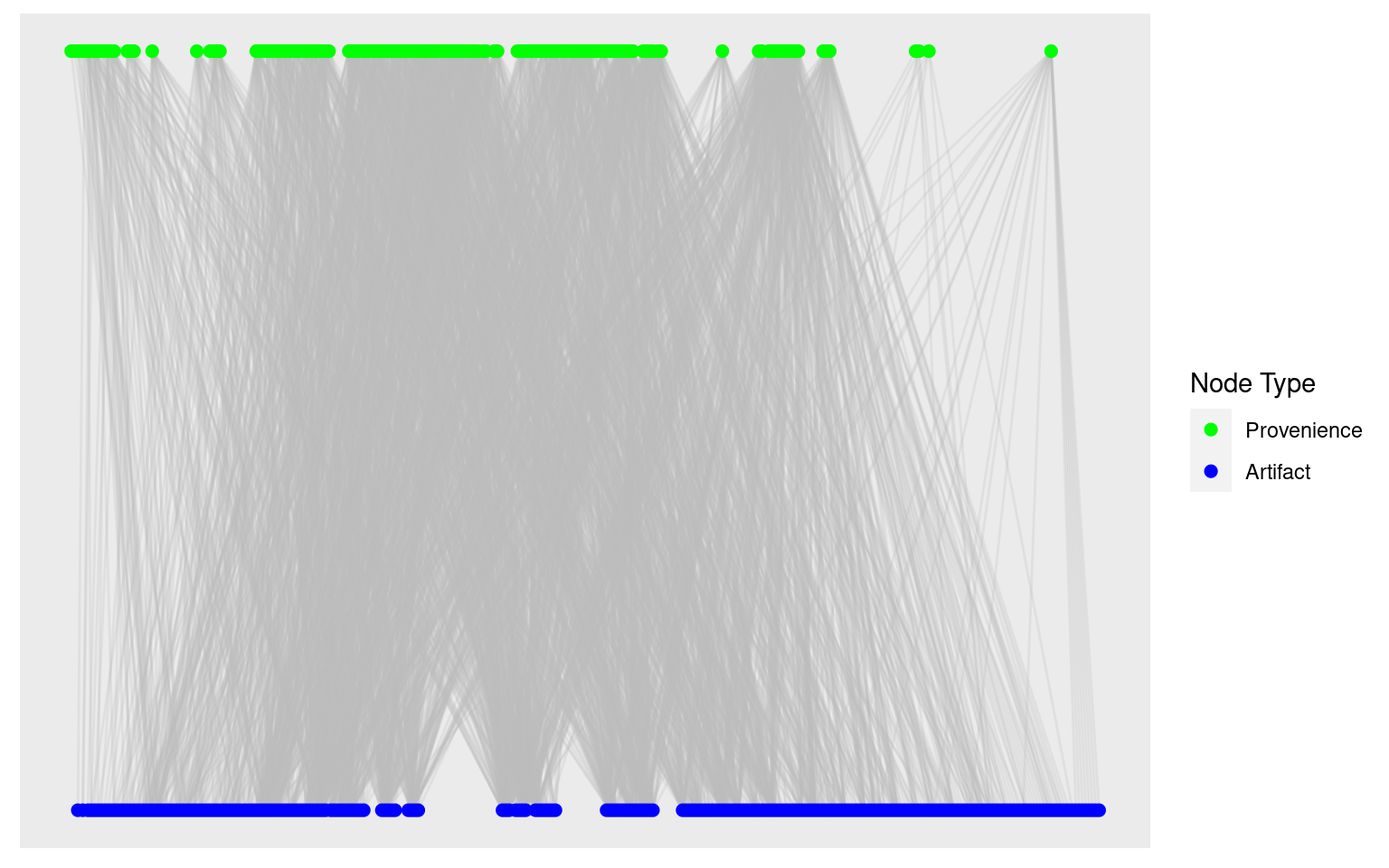
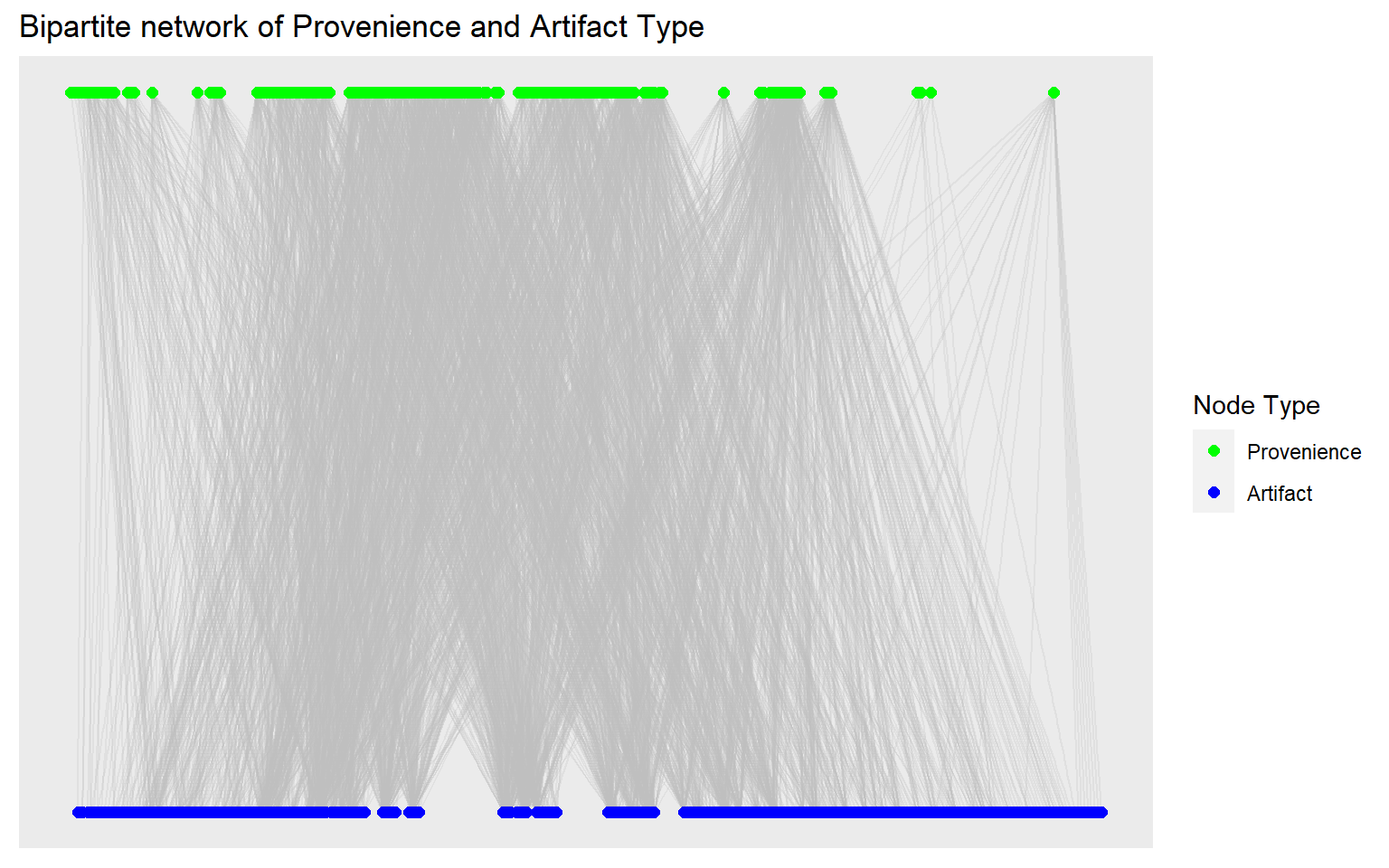
Finished Jaccard writeup

diff --git a/docs/assemblage_network/assemblage_network_doc_2_similarity.html b/docs/assemblage_network/assemblage_network_doc_2_similarity.html
@@ -94,6 +94,7 @@ code span.wa { color: #60a0b0; font-weight: bold; font-style: italic; } /* Warni
 <link href="assemblage_network_doc_2_similarity_files/libs/bootstrap/bootstrap-icons.css" rel="stylesheet">
 <link href="assemblage_network_doc_2_similarity_files/libs/bootstrap/bootstrap.min.css" rel="stylesheet" id="quarto-bootstrap" data-mode="light">
 
+  <script src="https://cdn.jsdelivr.net/npm/mathjax@3/es5/tex-chtml-full.js" type="text/javascript"></script>
 
 </head>
 
@@ -134,7 +135,7 @@ code span.wa { color: #60a0b0; font-weight: bold; font-style: italic; } /* Warni
 <p><img src="archaeo_DS_mine.png" class="img-fluid"></p>
 <p>In my last installment (<a href="https://medium.com/p/648a2f20d389">Part I</a>), I introduced you to a bit about the process of analyzing an archaeological site with data science. I talked about the frustratingly complex nature of “Old Things in Space” and how the network of artifacts and locations constitute a bipartite graph.</p>
 <p>As we worked through the process of creating a two-mode graph and projecting it into its constituent one-mode graphs, however, we ended on something of a cliff-hanger… <em>everything</em> ended up connected to <em>everything else</em>!</p>
-<p>Well, sort of. I have to confess that I intentionally lead you down a primrose path straight into a carefully crafted cul-de-sac. All part of my cunning plan, of course, to get to the much more interesting topic of thinking about just what it means for two things to be “similar” and similarity metrics for <em>sets.</em></p>
+<p>Well, sort of. I have to confess that I intentionally lead you down a primrose path straight into a cul-de-sac. All part of my cunning plan, of course, to get to the much more interesting topic of thinking about just what it means for two things to be “similar” and similarity metrics for <em>sets.</em></p>
 <p>In my defense, I did briefly mention that <code>igraph</code> doesn’t really have the best of tools to actually <em>do</em> much of anything interesting with bipartite graphs. The problem is that the method it uses in its <code>bipartite_projection</code> simply sums the pairwise occurrences in the incidence matrix. That, as it turns out, is less than useful in a lot of cases.</p>
 <p>Instead, we need to explore some more robust methods for evaluating <em>similarity</em> between sets. Unlike numerical methods of calculating correlation or distance, there are some conceptual peculiarities when comparing correspondence and similarity between sets that need to be considered. In this article, we’ll look at some of the most commonly used set-based similarity metrics and reason through <em>how</em> to choose the appropriate metric for our goals.</p>
 <p>For those just joining in, this is the Part II of a series in archaeological data science covering:</p>
@@ -195,8 +196,8 @@ code span.wa { color: #60a0b0; font-weight: bold; font-style: italic; } /* Warni
 <span id="cb2-7"><a href="#cb2-7" aria-hidden="true" tabindex="-1"></a>    <span class="at">values =</span> <span class="fu">c</span>(<span class="st">"green"</span>, <span class="st">"blue"</span>),</span>
 <span id="cb2-8"><a href="#cb2-8" aria-hidden="true" tabindex="-1"></a>    <span class="at">name =</span> <span class="st">"Node Type"</span>,</span>
 <span id="cb2-9"><a href="#cb2-9" aria-hidden="true" tabindex="-1"></a>    <span class="at">breaks =</span> <span class="fu">c</span>(<span class="cn">FALSE</span>, <span class="cn">TRUE</span>),</span>
-<span id="cb2-10"><a href="#cb2-10" aria-hidden="true" tabindex="-1"></a>    <span class="at">labels =</span> <span class="fu">c</span>(<span class="st">"Provenience"</span>, <span class="st">"Artifact"</span>)</span>
-<span id="cb2-11"><a href="#cb2-11" aria-hidden="true" tabindex="-1"></a>  )</span></code><button title="Copy to Clipboard" class="code-copy-button"><i class="bi"></i></button></pre></div>
+<span id="cb2-10"><a href="#cb2-10" aria-hidden="true" tabindex="-1"></a>    <span class="at">labels =</span> <span class="fu">c</span>(<span class="st">"Provenience"</span>, <span class="st">"Artifact"</span>)) <span class="sc">+</span></span>
+<span id="cb2-11"><a href="#cb2-11" aria-hidden="true" tabindex="-1"></a>  <span class="fu">ggtitle</span>(<span class="st">"Bipartite network of Provenience and Artifact Type"</span>)</span></code><button title="Copy to Clipboard" class="code-copy-button"><i class="bi"></i></button></pre></div>
 <div class="cell-output-display">
 <div class="quarto-figure quarto-figure-center">
 <figure class="figure">
@@ -224,11 +225,159 @@ code span.wa { color: #60a0b0; font-weight: bold; font-style: italic; } /* Warni
 <p>Depending on which way we view our incidence matrix, we now have a collection of the sets of artifact types found at each provenience (by row) or sets of proveniences at which each artifact type was found (by column).</p>
 <p>The goal is to find a partitioning of this system of sets such that each subset of provenience contains a coherent collection of artifact types (i.e., what archaeologists call an <em>assemblage</em>) and each subset of artifact types are found together in a coherent spatial collection of proveniences (we call those a <em>context</em>).</p>
 <p>What we’re trying to do now is to look at the ways we compute that “coherence” within the projected modes of our bipartite graph. In order to project our bipartite node types into two separate one-mode graphs, we want to evaluate similarity measures between pairwise comparisons of these sets.</p>
-<p>We found out in the last installment (<a href="https://medium.com/p/648a2f20d389">Part I</a>) that the <code>bipartite_projection</code> method in <code>igraph</code> only sums the number of pairwise coincidences. That means, though, that even one shared element between sets is enough to link them. It doesn’t, at all, factor in how many elements of the sets are <em>different</em> or the <em>total</em> number of elements being considered. In the end, every node in each projection was linked to almost every other node with no good way to evaluate the <em>strength</em> of those connections. Not particularly useful.</p>
+</section>
+<section id="archaeological-objectives" class="level2">
+<h2 class="anchored" data-anchor-id="archaeological-objectives">Archaeological Objectives</h2>
+<p>I’ve introduced you to a couple archaeological concepts, as well as a few concepts about sets and graphs. Now I’d like to pause to explain why we’re so interested in finding these subsets and partitions. You see, archaeologists don’t really interpret artifacts <em>per se</em>.</p>
+<p>We’re interested in interpreting human activities across time and space, which gives us a window into far more abstract concepts like <em>behavior</em> or <em>culture</em>. The way we do that, since we don’t have a time machine to go back and observe what people were actually doing, is by looking for patterns of associations between the physical remnants (i.e., the debris or <em>trash</em>) left behind by those activities. Weird, I know, but it works surprisingly well.</p>
+<p>Just think for a moment about what you’re trash might show about <em>your</em> daily behavior!</p>
+<p>Anyway, the reason we’re so interested in finding groupings in artifacts (the things) and provenience (the location in 3-dimensional space) is that those are just the samples we collect. We want to know about the <em>populations</em> from which those samples are drawn. In this case, those populations are the <em>assemblages</em> and <em>contexts</em>. We want to see if we can differentiate one assemblage or context from another, then see what patterns that reveals.</p>
+<p>For example, does an identified assemblage of artifacts have a specific range of dates so that it uniquely identifies <em>when</em> or <em>how long</em> a site was occupied? Does one assemblage relate to domestic activities while another reflects economic activities, and are those spaces (i.e., their contexts) separate or commingled? If the site was occupied multiple times or by multiple households, were they continuous or intermittent? Different assemblages might be mixed into the same context if they were continuous.</p>
+<p>So many questions, but parsing the artifact and provenience data into assemblages and contexts is the first step. We want to be sure that our analytic methods are appropriate.</p>
 </section>
 </section>
-<section id="bipartite-projection-by-similarity" class="level1">
-<h1>Bipartite Projection by Similarity</h1>
+<section id="similarity-measures-for-projections" class="level1">
+<h1>Similarity Measures for Projections</h1>
+<p>We found out in the last installment (<a href="https://medium.com/p/648a2f20d389">Part I</a>) that the <code>bipartite_projection</code> method in <code>igraph</code> only sums the number of pairwise coincidences. That means, though, that even one shared element between sets is enough to link them. It doesn’t, at all, factor in how many elements of the sets are <em>different</em> or the <em>total</em> number of elements being considered.</p>
+<p>In the end, every node in each projection was linked to almost every other node with no good way to evaluate the <em>strength</em> of those connections. Not particularly useful.</p>
+<p>Now we can start looking more closely at set-based similarity measures, and how use them to project our bipartite graph. We could use existing packages for these, but I’d like instead to build our own functions in order to get a better sense of what is going on “under the hood” so to speak.</p>
+<p>Do note that these functions are intended for binary incidence matrices. Different approaches would be needed for sets with multiplicities or counts (i.e., multisets or m-sets).</p>
+<section id="overlap-or-szymkiewicz-simpson-coefficient" class="level2">
+<h2 class="anchored" data-anchor-id="overlap-or-szymkiewicz-simpson-coefficient">Overlap or Szymkiewicz-Simpson Coefficient</h2>
+<p>This similarity measure is simply the number of common elements of the intersection between two sets divided by the total number of members in the <em>smaller</em> of the two sets. Remember, the number of unique members or elements that make up a set are its size or (more formally) its cardinality.</p>
+<p><span class="math display">\[
+Overlap(A, B) = \frac{|A \cap B |}{\min ({|A|,|B|})}
+\]</span></p>
+<p>For example, say we have two sets: <span class="math inline">\(X=\{a, b, c\}\)</span> and <span class="math inline">\(Y = \{b, c, d, e, f\}\)</span>. Their intersection is <span class="math inline">\(X \cap Y = \{b, c\}\)</span> and the sets have cardinality <span class="math inline">\(|X|=3\)</span> and <span class="math inline">\(|Y| = 5\)</span>. Their overlap coefficient would be:</p>
+<p><span class="math display">\[
+\begin{align}
+Overlap(X, Y) &amp;= \frac{|\{b, c\}|}{\min(|\{a, b, c\}|, |\{b, c, d, e, f\}|)}\\
+&amp;= \frac{2}{\min (3, 5)} \\
+&amp;= \frac{2}{3} \approx 0.67
+\end{align}
+\]</span></p>
+<p>Easy, right? It’s just the proportion of the smaller set’s members that are also members of the larger set (thus, <em>overlap</em>).</p>
+<p>Notice, though, that if <em>all</em> of the elements of the smaller set were in the larger set – i.e., if we were to drop element <span class="math inline">\(a\)</span> from set <span class="math inline">\(X\)</span> so that it was a complete <em>subset</em> of <span class="math inline">\(Y\)</span> – then the coefficient would equal <span class="math inline">\(1\)</span> regardless of how many additional members were in <span class="math inline">\(Y\)</span>.</p>
+<p>So, this similarity measure is defining <em>similarity</em> in a very specific way. It includes an assumption that <em>any</em> subset is effectively <em>equivalent</em> to its superset. That little quirk of definition can be quite useful, depending on your application.</p>
+<p>The overlap coefficient is a common set similarity metric used in everything from gene sequencing to topic modeling. It’s also quite easy to calculate across our binary incidence matrix.</p>
+<div class="cell">
+<div class="sourceCode cell-code" id="cb5"><pre class="sourceCode r code-with-copy"><code class="sourceCode r"><span id="cb5-1"><a href="#cb5-1" aria-hidden="true" tabindex="-1"></a><span class="co"># Szymkiewicz-Simpson overlap coefficient for binary incidence matrices</span></span>
+<span id="cb5-2"><a href="#cb5-2" aria-hidden="true" tabindex="-1"></a></span>
+<span id="cb5-3"><a href="#cb5-3" aria-hidden="true" tabindex="-1"></a>overlap_coef_bin <span class="ot">&lt;-</span> <span class="cf">function</span>(x) {</span>
+<span id="cb5-4"><a href="#cb5-4" aria-hidden="true" tabindex="-1"></a>  <span class="co"># Calculate the pairwise sums of non-zero matrix elements to find the number</span></span>
+<span id="cb5-5"><a href="#cb5-5" aria-hidden="true" tabindex="-1"></a>  <span class="co"># of intersecting elements between each input column</span></span>
+<span id="cb5-6"><a href="#cb5-6" aria-hidden="true" tabindex="-1"></a>  bin_intersect_mat <span class="ot">&lt;-</span> <span class="fu">t</span>(x) <span class="sc">%*%</span> x</span>
+<span id="cb5-7"><a href="#cb5-7" aria-hidden="true" tabindex="-1"></a>  </span>
+<span id="cb5-8"><a href="#cb5-8" aria-hidden="true" tabindex="-1"></a>  <span class="co"># Calculate the input column sums to find the individual size of each set</span></span>
+<span id="cb5-9"><a href="#cb5-9" aria-hidden="true" tabindex="-1"></a>  col_sum <span class="ot">&lt;-</span> <span class="fu">apply</span>(x, <span class="dv">2</span>, <span class="cf">function</span>(xx)</span>
+<span id="cb5-10"><a href="#cb5-10" aria-hidden="true" tabindex="-1"></a>    <span class="fu">sum</span>(xx <span class="sc">!=</span> <span class="dv">0</span>))</span>
+<span id="cb5-11"><a href="#cb5-11" aria-hidden="true" tabindex="-1"></a>  </span>
+<span id="cb5-12"><a href="#cb5-12" aria-hidden="true" tabindex="-1"></a>  <span class="co"># Find the smaller of each pair of sets by taking the matrix outer minimum</span></span>
+<span id="cb5-13"><a href="#cb5-13" aria-hidden="true" tabindex="-1"></a>  min_set_size_mat <span class="ot">&lt;-</span> <span class="fu">outer</span>(col_sum, col_sum, <span class="at">FUN =</span> pmin)</span>
+<span id="cb5-14"><a href="#cb5-14" aria-hidden="true" tabindex="-1"></a>  </span>
+<span id="cb5-15"><a href="#cb5-15" aria-hidden="true" tabindex="-1"></a>  <span class="co"># Szymkiewicz-Simpson overlap coefficient is the pairwise intersection of two</span></span>
+<span id="cb5-16"><a href="#cb5-16" aria-hidden="true" tabindex="-1"></a>  <span class="co"># sets divided by the size of the smaller set</span></span>
+<span id="cb5-17"><a href="#cb5-17" aria-hidden="true" tabindex="-1"></a>  ssoc <span class="ot">&lt;-</span> bin_intersect_mat <span class="sc">/</span> min_set_size_mat</span>
+<span id="cb5-18"><a href="#cb5-18" aria-hidden="true" tabindex="-1"></a>  </span>
+<span id="cb5-19"><a href="#cb5-19" aria-hidden="true" tabindex="-1"></a>  <span class="co"># Set diagonal to identity</span></span>
+<span id="cb5-20"><a href="#cb5-20" aria-hidden="true" tabindex="-1"></a>  <span class="fu">diag</span>(ssoc) <span class="ot">&lt;-</span> <span class="dv">1</span></span>
+<span id="cb5-21"><a href="#cb5-21" aria-hidden="true" tabindex="-1"></a>  </span>
+<span id="cb5-22"><a href="#cb5-22" aria-hidden="true" tabindex="-1"></a>  <span class="co"># Assign input column names to rows and columns of return matrix</span></span>
+<span id="cb5-23"><a href="#cb5-23" aria-hidden="true" tabindex="-1"></a>  <span class="fu">dimnames</span>(ssoc) <span class="ot">&lt;-</span> <span class="fu">list</span>(<span class="fu">colnames</span>(x), <span class="fu">colnames</span>(x))</span>
+<span id="cb5-24"><a href="#cb5-24" aria-hidden="true" tabindex="-1"></a>  </span>
+<span id="cb5-25"><a href="#cb5-25" aria-hidden="true" tabindex="-1"></a>  <span class="fu">return</span>(ssoc)</span>
+<span id="cb5-26"><a href="#cb5-26" aria-hidden="true" tabindex="-1"></a>}</span></code><button title="Copy to Clipboard" class="code-copy-button"><i class="bi"></i></button></pre></div>
+</div>
+</section>
+<section id="jaccard-or-tanimoto-similarity-index" class="level2">
+<h2 class="anchored" data-anchor-id="jaccard-or-tanimoto-similarity-index">Jaccard (or Tanimoto) Similarity Index</h2>
+<p>The Jaccard index is probably the most well-known and used of the set similarity measures. You may also see this one referenced as the Tanimoto (or even Jaccard-Tanimoto) index, owing to its independent formulation through time in different fields of study. All versions, however, refer to a measure of similarity based on the ratio of cardinality between the <em>intersection</em> of two sets and their <em>union</em>.</p>
+<p><span class="math display">\[
+J(A, B) = \frac{|A \cap B|}{|A \cup B|} = \frac{|A \cap B|}{|A| + |B| - |A \cap B|}
+\]</span></p>
+<p>Unlike the overlap coefficient, you can see that the Jaccard index considers the <em>total</em> cardinality of the sets being compared in the denominator. That means that this index will <em>always</em> penalize differences between sets, even if one is a proper subset of the other.</p>
+<p>To demonstrate, let’s go back to our toy example sets <span class="math inline">\(X=\{a, b, c\}\)</span> and <span class="math inline">\(Y = \{b, c, d, e, f\}\)</span> to calculate the Jaccard index value.</p>
+<p><span class="math display">\[
+\begin{align}
+J(X, Y) &amp;= \frac{|\{b, c\}|}{|\{a, b, c\}| + |\{b, c, d, e, f\}| - |\{b, c\}|}\\
+&amp;= \frac{2}{3 + 5 - 2} \\
+&amp;= \frac{2}{6} \approx 0.33
+\end{align}
+\]</span></p>
+<p>By considering the total cardinality of the sets, the Jaccard index comes back a fair bit <em>lower</em> than the Overlap Coefficient (<span class="math inline">\(\approx 0.67\)</span>). Next, let’s go ahead and drop element <span class="math inline">\(a\)</span> to make <span class="math inline">\(X\)</span> a proper subset of <span class="math inline">\(Y\)</span> and see what happens. Whereas the Overlap Coefficient was <span class="math inline">\(1\)</span>, we find that</p>
+<p><span class="math display">\[
+\begin{align}
+J(X, Y) &amp;= \frac{|\{b, c\}|}{|\{b, c\}| + |\{b, c, d, e, f\}| - |\{b, c\}|}\\
+&amp;= \frac{2}{2 + 5 - 2} \\
+&amp;= \frac{2}{5} = 0.4
+\end{align}
+\]</span></p>
+<p>That’s a significant difference! Even though <span class="math inline">\(X\)</span> is a proper subset of <span class="math inline">\(Y\)</span>, the Jaccard index emphasizes the <em>differences</em> between the sets over their intersection. The greater the disparity between sets, the lower the index value. Again, depending on your use case, that extra penalization of difference may be to your advantage.</p>
+<p>The Jaccard similarity index is perhaps, as already mentioned, the most common and versatile of the set similarity measures. It’s often used for comparing categorical data, and frequently found in ecological or social science applications.</p>
+<p>Our function to calculate the index is very similar to that for the overlap coefficient, but substituting summation for minimum value in our outer product and changing the denominator.</p>
+<div class="cell">
+<div class="sourceCode cell-code" id="cb6"><pre class="sourceCode r code-with-copy"><code class="sourceCode r"><span id="cb6-1"><a href="#cb6-1" aria-hidden="true" tabindex="-1"></a><span class="co"># Jaccard/Tanimoto similarity index for binary incidence matrices</span></span>
+<span id="cb6-2"><a href="#cb6-2" aria-hidden="true" tabindex="-1"></a></span>
+<span id="cb6-3"><a href="#cb6-3" aria-hidden="true" tabindex="-1"></a>jaccard_sim_bin <span class="ot">&lt;-</span> <span class="cf">function</span>(x) {</span>
+<span id="cb6-4"><a href="#cb6-4" aria-hidden="true" tabindex="-1"></a>  <span class="co"># Calculate the pairwise sums of non-zero matrix elements to find the number</span></span>
+<span id="cb6-5"><a href="#cb6-5" aria-hidden="true" tabindex="-1"></a>  <span class="co"># of intersecting elements between each input column</span></span>
+<span id="cb6-6"><a href="#cb6-6" aria-hidden="true" tabindex="-1"></a>  bin_intersect_mat <span class="ot">&lt;-</span> <span class="fu">t</span>(x) <span class="sc">%*%</span> x</span>
+<span id="cb6-7"><a href="#cb6-7" aria-hidden="true" tabindex="-1"></a>  </span>
+<span id="cb6-8"><a href="#cb6-8" aria-hidden="true" tabindex="-1"></a>  <span class="co"># Calculate the input column sums to find the individual size of each set</span></span>
+<span id="cb6-9"><a href="#cb6-9" aria-hidden="true" tabindex="-1"></a>  x_col_sum <span class="ot">&lt;-</span> <span class="fu">apply</span>(x, <span class="dv">2</span>, <span class="cf">function</span>(xx)</span>
+<span id="cb6-10"><a href="#cb6-10" aria-hidden="true" tabindex="-1"></a>    <span class="fu">sum</span>(xx <span class="sc">!=</span> <span class="dv">0</span>))</span>
+<span id="cb6-11"><a href="#cb6-11" aria-hidden="true" tabindex="-1"></a>  </span>
+<span id="cb6-12"><a href="#cb6-12" aria-hidden="true" tabindex="-1"></a>  <span class="co"># Calculate the matrix outer sums for pairwise sum of set sizes</span></span>
+<span id="cb6-13"><a href="#cb6-13" aria-hidden="true" tabindex="-1"></a>  set_size_sum_mat <span class="ot">&lt;-</span> <span class="fu">outer</span>(x_col_sum, x_col_sum, <span class="at">FUN =</span> <span class="st">"+"</span>)</span>
+<span id="cb6-14"><a href="#cb6-14" aria-hidden="true" tabindex="-1"></a>  </span>
+<span id="cb6-15"><a href="#cb6-15" aria-hidden="true" tabindex="-1"></a>  <span class="co"># Jaccard index is intersection of set sizes over the size of the union of</span></span>
+<span id="cb6-16"><a href="#cb6-16" aria-hidden="true" tabindex="-1"></a>  <span class="co"># sets</span></span>
+<span id="cb6-17"><a href="#cb6-17" aria-hidden="true" tabindex="-1"></a>  jacc <span class="ot">&lt;-</span> bin_intersect_mat <span class="sc">/</span> (set_size_sum_mat <span class="sc">-</span> bin_intersect_mat)</span>
+<span id="cb6-18"><a href="#cb6-18" aria-hidden="true" tabindex="-1"></a>  </span>
+<span id="cb6-19"><a href="#cb6-19" aria-hidden="true" tabindex="-1"></a>  <span class="co"># Set diagonal to identity</span></span>
+<span id="cb6-20"><a href="#cb6-20" aria-hidden="true" tabindex="-1"></a>  <span class="fu">diag</span>(jacc) <span class="ot">&lt;-</span> 1L</span>
+<span id="cb6-21"><a href="#cb6-21" aria-hidden="true" tabindex="-1"></a>  </span>
+<span id="cb6-22"><a href="#cb6-22" aria-hidden="true" tabindex="-1"></a>  <span class="co"># Assign input column names to rows and columns of return matrix</span></span>
+<span id="cb6-23"><a href="#cb6-23" aria-hidden="true" tabindex="-1"></a>  <span class="fu">dimnames</span>(jacc) <span class="ot">&lt;-</span> <span class="fu">list</span>(<span class="fu">colnames</span>(x), <span class="fu">colnames</span>(x))</span>
+<span id="cb6-24"><a href="#cb6-24" aria-hidden="true" tabindex="-1"></a>  </span>
+<span id="cb6-25"><a href="#cb6-25" aria-hidden="true" tabindex="-1"></a>  <span class="fu">return</span>(jacc)</span>
+<span id="cb6-26"><a href="#cb6-26" aria-hidden="true" tabindex="-1"></a>}</span></code><button title="Copy to Clipboard" class="code-copy-button"><i class="bi"></i></button></pre></div>
+</div>
+</section>
+<section id="sørensendice-coefficient" class="level2">
+<h2 class="anchored" data-anchor-id="sørensendice-coefficient">Sørensen–Dice Coefficient</h2>
+<div class="cell">
+<div class="sourceCode cell-code" id="cb7"><pre class="sourceCode r code-with-copy"><code class="sourceCode r"><span id="cb7-1"><a href="#cb7-1" aria-hidden="true" tabindex="-1"></a><span class="co"># Sørensen–Dice Coefficient for binary incidence matrices</span></span>
+<span id="cb7-2"><a href="#cb7-2" aria-hidden="true" tabindex="-1"></a></span>
+<span id="cb7-3"><a href="#cb7-3" aria-hidden="true" tabindex="-1"></a>soren_dice_sim_bin <span class="ot">&lt;-</span> <span class="cf">function</span>(x) {</span>
+<span id="cb7-4"><a href="#cb7-4" aria-hidden="true" tabindex="-1"></a>  <span class="co"># Calculate the pairwise sums of non-zero matrix elements to find the number</span></span>
+<span id="cb7-5"><a href="#cb7-5" aria-hidden="true" tabindex="-1"></a>  <span class="co"># of intersecting elements between each input column</span></span>
+<span id="cb7-6"><a href="#cb7-6" aria-hidden="true" tabindex="-1"></a>  bin_intersect_mat <span class="ot">&lt;-</span> <span class="fu">t</span>(x) <span class="sc">%*%</span> x</span>
+<span id="cb7-7"><a href="#cb7-7" aria-hidden="true" tabindex="-1"></a>  </span>
+<span id="cb7-8"><a href="#cb7-8" aria-hidden="true" tabindex="-1"></a>  <span class="co"># Calculate the input column sums, to find the individual size of each set</span></span>
+<span id="cb7-9"><a href="#cb7-9" aria-hidden="true" tabindex="-1"></a>  col_sum <span class="ot">&lt;-</span> <span class="fu">apply</span>(x, <span class="dv">2</span>, <span class="cf">function</span>(xx)</span>
+<span id="cb7-10"><a href="#cb7-10" aria-hidden="true" tabindex="-1"></a>    <span class="fu">sum</span>(xx <span class="sc">!=</span> <span class="dv">0</span>))</span>
+<span id="cb7-11"><a href="#cb7-11" aria-hidden="true" tabindex="-1"></a>  </span>
+<span id="cb7-12"><a href="#cb7-12" aria-hidden="true" tabindex="-1"></a>  <span class="co"># Calculate the matrix outer sums for pairwise sum of set sizes</span></span>
+<span id="cb7-13"><a href="#cb7-13" aria-hidden="true" tabindex="-1"></a>  set_size_sum_mat <span class="ot">&lt;-</span> <span class="fu">outer</span>(col_sum, col_sum, <span class="at">FUN =</span> <span class="st">"+"</span>)</span>
+<span id="cb7-14"><a href="#cb7-14" aria-hidden="true" tabindex="-1"></a>  </span>
+<span id="cb7-15"><a href="#cb7-15" aria-hidden="true" tabindex="-1"></a>  <span class="co"># Sorenson-Dice index is twice the size of the intersection divided by the</span></span>
+<span id="cb7-16"><a href="#cb7-16" aria-hidden="true" tabindex="-1"></a>  <span class="co"># sum of the size for each set</span></span>
+<span id="cb7-17"><a href="#cb7-17" aria-hidden="true" tabindex="-1"></a>  sd <span class="ot">&lt;-</span> (<span class="dv">2</span> <span class="sc">*</span> bin_intersect_mat) <span class="sc">/</span> set_size_sum_mat</span>
+<span id="cb7-18"><a href="#cb7-18" aria-hidden="true" tabindex="-1"></a>  </span>
+<span id="cb7-19"><a href="#cb7-19" aria-hidden="true" tabindex="-1"></a>  <span class="co"># Set diagonal to identity</span></span>
+<span id="cb7-20"><a href="#cb7-20" aria-hidden="true" tabindex="-1"></a>  <span class="fu">diag</span>(sd) <span class="ot">&lt;-</span> <span class="dv">1</span></span>
+<span id="cb7-21"><a href="#cb7-21" aria-hidden="true" tabindex="-1"></a>  </span>
+<span id="cb7-22"><a href="#cb7-22" aria-hidden="true" tabindex="-1"></a>  <span class="co"># Assign input column names to rows and columns of return matrix</span></span>
+<span id="cb7-23"><a href="#cb7-23" aria-hidden="true" tabindex="-1"></a>  <span class="fu">dimnames</span>(sd) <span class="ot">&lt;-</span> <span class="fu">list</span>(<span class="fu">colnames</span>(x), <span class="fu">colnames</span>(x))</span>
+<span id="cb7-24"><a href="#cb7-24" aria-hidden="true" tabindex="-1"></a>  <span class="fu">return</span>(sd)</span>
+<span id="cb7-25"><a href="#cb7-25" aria-hidden="true" tabindex="-1"></a>  </span>
+<span id="cb7-26"><a href="#cb7-26" aria-hidden="true" tabindex="-1"></a>}</span></code><button title="Copy to Clipboard" class="code-copy-button"><i class="bi"></i></button></pre></div>
+</div>
+</section>
+<section id="section" class="level2">
+<h2 class="anchored" data-anchor-id="section"></h2>
+</section>
 </section>
 
 </main>
